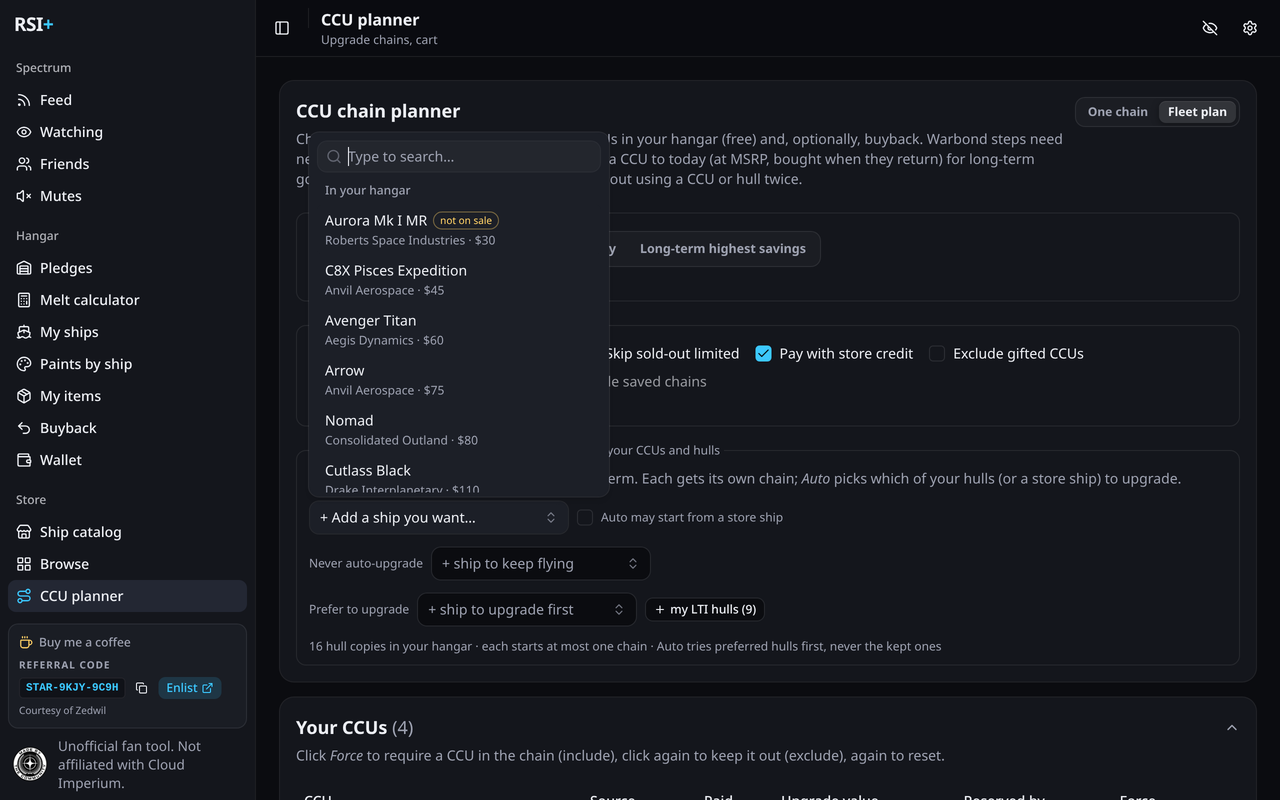
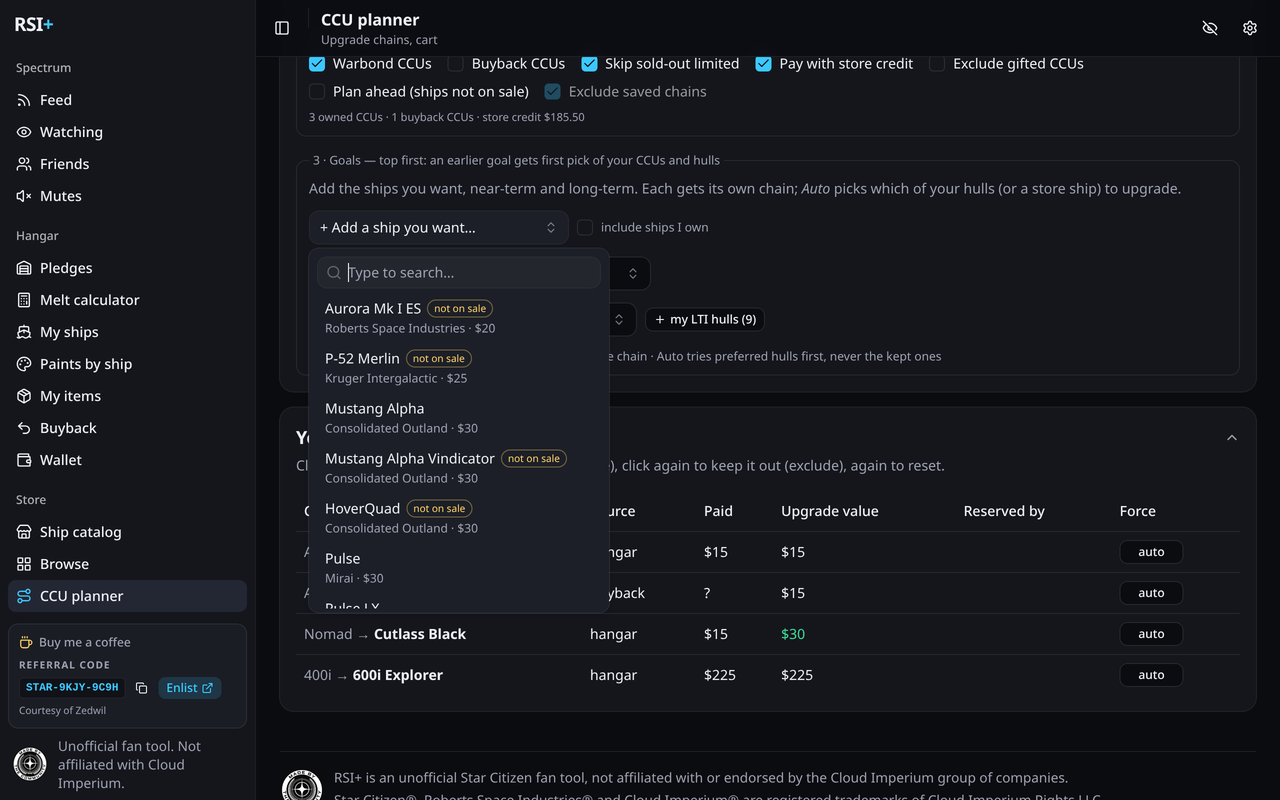
feat(ccu): per-goal LTI preference and store start in fleet plans; want pickers hide owned ships by default

diff --git a/src/lib/ccu.ts b/src/lib/ccu.ts
@@ -290,6 +290,13 @@ export interface Goal {
   fromId: number | null;
   targetId: number;
   via: number[];
+  /** Auto source may start by buying a store ship (unset = the plan-wide default `FleetOptions.storeStart`). */
+  storeStart?: boolean;
+  /**
+   * Insurance of the hull copy to upgrade: `any`; `prefer` an LTI copy when one gets there; `only` LTI copies (no store
+   * start — a new ship has no LTI). A CCU keeps the pledge's insurance, so LTI goals should start from LTI tokens.
+   */
+  lti?: 'any' | 'prefer' | 'only';
 }
 export interface FleetLeg {
   goal: Goal;
@@ -297,6 +304,8 @@ export interface FleetLeg {
   startId: number | null;
   plan: Plan | null;
   auto: boolean;
+  /** The upgraded hull copy is on an LTI pledge. */
+  lti: boolean;
   /** Planned ahead although the option is off: no chain with today's sales (target not on sale — an Orion, an Arrastra). */
   ahead: boolean;
 }
@@ -313,13 +322,13 @@ export interface FleetPlan {
   failed: number;
 }
 export interface FleetOptions {
-  /** Hull copies you own that can be upgraded (one copy per goal). */
-  hulls: { id: number; count: number }[];
+  /** Hull copies you own that can be upgraded (one copy per goal); `lti` = how many of them are on LTI pledges. */
+  hulls: { id: number; count: number; lti?: number }[];
   /** Hulls an auto goal never upgrades (ones you want to keep flying). */
   keep?: number[];
   /** Hulls an auto goal upgrades first when one of them gets there (cheap LTI tokens, ships you don't fly). */
   prefer?: number[];
-  /** An auto goal may start by buying a ship from the store. */
+  /** Default for goals without their own `storeStart`: an auto goal may start by buying a ship from the store. */
   storeStart?: boolean;
 }
 
@@ -330,13 +339,31 @@ const better = (a: Plan, b: Plan) => a.savings !== b.savings ? a.savings > b.sav
  * Plans several goals together, in the given order (= priority): each goal's chain may not reuse an owned / buyback
  * CCU an earlier goal took, and each owned hull copy starts at most one chain (goals with a fixed source claim theirs
  * first). An auto goal (`fromId: null`) tries every free hull copy cheaper than the target (not in `keep`) and, with
- * `storeStart`, buying from the store, and keeps the one that saves most. `opt.include` / `opt.via` are ignored —
- * stops are per goal.
+ * its `storeStart`, buying from the store, and keeps the one that saves most. Candidates are tried in groups — LTI
+ * copies first for an `lti: 'prefer'` goal (only those for `only`), then `prefer` hulls — and the first group with a
+ * chain wins. A goal that doesn't ask for LTI uses a non-LTI copy when the hull has one, leaving LTI copies for the
+ * goals that want them. `opt.include` / `opt.via` are ignored — stops are per goal.
  */
 export function planFleet(ships: CatalogShip[], owned: OwnedCcu[], goals: Goal[], opt: PlanOptions, fo: FleetOptions): FleetPlan {
   const byId = new Map(ships.map((s) => [s.id, s]));
-  const free = new Map(fo.hulls.map((h) => [h.id, h.count]));
-  for (const g of goals) if (g.fromId != null && free.get(g.fromId)) free.set(g.fromId, free.get(g.fromId)! - 1);
+  /** Free copies per hull, split by insurance. */
+  const free = new Map(fo.hulls.map((h) => [h.id, { lti: Math.min(h.lti ?? 0, h.count), plain: h.count - Math.min(h.lti ?? 0, h.count) }]));
+  const wantsLti = (g: Goal) => g.lti === 'prefer' || g.lti === 'only';
+  const has = (id: number, ltiOnly: boolean) => {
+    const f = free.get(id);
+    return !!f && (ltiOnly ? f.lti > 0 : f.lti + f.plain > 0);
+  };
+  /** Take one copy: an LTI one when the goal wants it (and there is one), else a plain one first. Returns its LTI. */
+  const take = (id: number, g: Goal): boolean => {
+    const f = free.get(id);
+    if (!f) return false;
+    const lti = wantsLti(g) ? f.lti > 0 : f.plain === 0 && f.lti > 0;
+    if (lti) f.lti--;
+    else if (f.plain > 0) f.plain--;
+    return lti;
+  };
+  const claimed = new Map<string, boolean>();
+  for (const g of goals) if (g.fromId != null && g.fromId !== STORE_START && has(g.fromId, g.lti === 'only')) claimed.set(g.id, take(g.fromId, g));
   const keep = new Set(fo.keep ?? []);
   const used = new Set<number>();
   const legs: FleetLeg[] = [];
@@ -346,12 +373,19 @@ export function planFleet(ships: CatalogShip[], owned: OwnedCcu[], goals: Goal[]
     let best: Plan | null = null;
     let ahead = false;
     const target = byId.get(goal.targetId);
-    const cands = goal.fromId != null ? [goal.fromId] : [...free].filter(([id, n]) => n > 0 && !keep.has(id) && (byId.get(id)?.msrp ?? Infinity) < (target?.msrp ?? 0)).map(([id]) => id);
-    if (goal.fromId == null && fo.storeStart) cands.push(STORE_START);
+    const only = goal.lti === 'only';
+    const cands =
+      goal.fromId != null
+        ? [goal.fromId]
+        : [...free.keys()].filter((id) => has(id, only) && !keep.has(id) && (byId.get(id)?.msrp ?? Infinity) < (target?.msrp ?? 0));
+    if (goal.fromId == null && !only && (goal.storeStart ?? fo.storeStart)) cands.push(STORE_START);
     // Today's sales first; only when no source gets there, plan ahead (waiting for the target's CCU to return).
-    // Within a pass, preferred hulls first: the best of them wins over any other hull.
+    // Within a pass, groups in order — LTI copies (prefer-LTI goals), then preferred hulls — and the first group
+    // with a chain wins over any later one.
     const pref = new Set(fo.prefer ?? []);
-    const groups = [cands.filter((c) => pref.has(c)), cands.filter((c) => !pref.has(c))];
+    const ltiFirst = goal.lti === 'prefer' && goal.fromId == null;
+    const isLti = (c: number) => (free.get(c)?.lti ?? 0) > 0;
+    const groups = (ltiFirst ? [cands.filter(isLti), cands.filter((c) => !isLti(c))] : [cands]).flatMap((g) => [g.filter((c) => pref.has(c)), g.filter((c) => !pref.has(c))]);
     search: for (const pass of o.planAhead ? [o] : [o, { ...o, planAhead: true }]) {
       for (const group of groups) {
         for (const c of group) {
@@ -364,9 +398,10 @@ export function planFleet(ships: CatalogShip[], owned: OwnedCcu[], goals: Goal[]
         }
       }
     }
-    if (goal.fromId == null && best && startId != null && startId !== STORE_START) free.set(startId, free.get(startId)! - 1);
+    let lti = claimed.get(goal.id) ?? false;
+    if (goal.fromId == null && best && startId != null && startId !== STORE_START) lti = take(startId, goal);
     for (const r of reservedRefs(best ? [best] : [])) used.add(r);
-    legs.push({ goal, startId: best ? startId : goal.fromId, plan: best, auto: goal.fromId == null, ahead });
+    legs.push({ goal, startId: best ? startId : goal.fromId, plan: best, auto: goal.fromId == null, lti, ahead });
   }
   const sum = (f: (p: Plan) => number) => legs.reduce((n, l) => n + (l.plan ? f(l.plan) : 0), 0);
   return { legs, total: sum((p) => p.total), cash: sum((p) => p.cash), paid: sum((p) => p.paid), later: sum((p) => p.later), waits: sum((p) => p.waits), msrpDiff: sum((p) => p.msrpDiff), savings: sum((p) => p.savings), failed: legs.filter((l) => !l.plan).length };
@@ -444,13 +479,17 @@ export function ownedCcus(
 }
 
 /** Hull copies you own (one per pledge listing it) — what a fleet plan can upgrade. */
-export function ownedHulls(pledges: { ships: string[] }[], ships: CatalogShip[]): { id: number; count: number }[] {
-  const n = new Map<number, number>();
+export function ownedHulls(pledges: { ships: string[]; lti?: boolean }[], ships: CatalogShip[]): { id: number; count: number; lti: number }[] {
+  const n = new Map<number, { count: number; lti: number }>();
   for (const p of pledges) for (const t of p.ships) {
     const s = matchShip(t, ships);
-    if (s) n.set(s.id, (n.get(s.id) ?? 0) + 1);
+    if (!s) continue;
+    const h = n.get(s.id) ?? { count: 0, lti: 0 };
+    h.count++;
+    if (p.lti) h.lti++;
+    n.set(s.id, h);
   }
-  return [...n].map(([id, count]) => ({ id, count }));
+  return [...n].map(([id, h]) => ({ id, ...h }));
 }
 
 /** Ships you own outright (single-ship / combo pledges, upgraded ships count as their current hull). */

diff --git a/src/components/CcuFleet.svelte b/src/components/CcuFleet.svelte
@@ -55,25 +55,24 @@
   let goals = $state<Goal[]>([]);
   let keep = $state<number[]>([]);
   let prefer = $state<number[]>([]);
-  let storeStart = $state(false);
   let loaded = $state(false);
   $effect(() => {
     ccuGoalsItem.getValue().then((v) => {
-      goals = v.goals;
+      // The store-start option used to be plan-wide: carry it into each goal that has none of its own.
+      goals = v.goals.map((g) => (g.storeStart === undefined ? { ...g, storeStart: v.storeStart } : g));
       keep = v.keep;
       prefer = v.prefer ?? [];
-      storeStart = v.storeStart;
       loaded = true;
     });
   });
   $effect(() => {
-    const v = { goals: $state.snapshot(goals), keep: $state.snapshot(keep), prefer: $state.snapshot(prefer), storeStart };
+    const v = { goals: $state.snapshot(goals), keep: $state.snapshot(keep), prefer: $state.snapshot(prefer), storeStart: false };
     if (loaded) ccuGoalsItem.setValue(v);
   });
 
   const byId = $derived(new Map(ships.map((s) => [s.id, s])));
   const name = (id: number | null) => (id == null ? 'Auto' : id === STORE_START ? 'Store' : (byId.get(id)?.name ?? `#${id}`));
-  const fleet = $derived(planFleet(ships, owned, goals, opt, { hulls, keep, prefer, storeStart }));
+  const fleet = $derived(planFleet(ships, owned, goals, opt, { hulls, keep, prefer }));
   const payNow = $derived(fleet.total - fleet.later);
   /** Every CCU the plan waits for, cheapest first: hull, which goal, planned cost, when last seen on sale. */
   const waiting = $derived(
@@ -88,12 +87,15 @@
 
   // ---- editing goals ----
   let addTo = $state<number | null>(null);
+  /** The goal picker hides ships you already own unless asked (a goal is usually a ship you don't have yet). */
+  let wantOwned = $state(false);
+  const wantable = $derived(wantOwned ? ships : ships.filter((s) => !mine.some((m) => m.id === s.id)));
   /** One-shot pickers (stops, keep): bound here and cleared after each pick so they read empty again. */
   let picks = $state<Record<string, number | null>>({});
   const uid = () => `${Date.now().toString(36)}${Math.random().toString(36).slice(2, 6)}`;
   function addGoal(id: number | null) {
     if (id == null) return;
-    goals = [...goals, { id: uid(), fromId: null, targetId: id, via: [] }];
+    goals = [...goals, { id: uid(), fromId: null, targetId: id, via: [], storeStart: false, lti: 'any' }];
     addTo = null;
   }
   const edit = (i: number, g: Partial<Goal>) => (goals = goals.map((x, j) => (j === i ? { ...x, ...g } : x)));
@@ -186,12 +188,34 @@
           {/each}
           <div class="w-[190px]"><ShipSelect ships={sortedShips} bind:value={() => picks[`via${g.id}`] ?? null, (v) => (picks[`via${g.id}`] = v)} price={false} onpick={(id) => (id != null && !g.via.includes(id) && edit(i, { via: [...g.via, id] }), (picks[`via${g.id}`] = null))} ariaLabel={`Add a stop for ${name(g.targetId)}`} placeholder="+ ship to fly on the way" /></div>
         </div>
+        {#if srcOf(g) !== 'store'}
+          <div class="flex flex-wrap items-center gap-2">
+            <span class="text-muted-foreground text-xs" title="A CCU keeps the pledge's insurance: upgrade an LTI copy to end with an LTI ship">Insurance</span>
+            <Segmented
+              options={[
+                { id: 'any', label: 'Any', hint: 'Any copy; a non-LTI copy is used first so LTI copies stay free for LTI goals' },
+                { id: 'prefer', label: 'Prefer LTI', hint: 'Upgrade an LTI copy when one gets there, else any' },
+                { id: 'only', label: 'LTI only', hint: 'Only LTI copies (no store start — a new ship has no LTI)' },
+              ]}
+              value={g.lti ?? 'any'}
+              onchange={(v) => edit(i, { lti: v as Goal['lti'] })}
+              ariaLabel={`Insurance for ${name(g.targetId)}`}
+              size="sm"
+            />
+            {#if srcOf(g) === 'auto'}
+              <label class={cn('text-muted-foreground flex items-center gap-2 text-xs', g.lti === 'only' && 'opacity-50')} title="This goal may start by buying a standalone ship on sale instead of upgrading one of yours">
+                <Checkbox checked={!!g.storeStart && g.lti !== 'only'} disabled={g.lti === 'only'} onCheckedChange={(v) => edit(i, { storeStart: !!v })} /> may start from a store ship
+              </label>
+            {/if}
+          </div>
+        {/if}
         {#if leg}
           {#if !leg.plan}
-            <span class="text-destructive text-xs">No chain, even planning ahead — {leg.auto ? 'no free hull of yours is cheaper than the target' : 'not reachable from that source'}, or a stop is not between source and target.</span>
+            <span class="text-destructive text-xs">No chain, even planning ahead — {leg.auto ? `no free ${g.lti === 'only' ? 'LTI ' : ''}hull of yours is cheaper than the target` : 'not reachable from that source'}, or a stop is not between source and target.</span>
           {:else}
             <div class="flex flex-wrap items-center gap-1.5 text-xs">
               {#if leg.auto}<Badge variant="outline" class="text-primary">auto: {name(leg.startId)}</Badge>{/if}
+              {#if leg.lti}<Badge variant="outline" class="border-warning/40 text-warning" title="Upgrades a copy on an LTI pledge — the target keeps LTI">LTI</Badge>{:else if g.lti === 'prefer' && leg.startId !== STORE_START}<Badge variant="outline" class="text-muted-foreground" title="No free LTI copy gets there — a non-LTI copy is used">no LTI copy</Badge>{/if}
               {#if leg.ahead}<Badge variant="outline" class="border-warning/40 text-warning" title="Nothing on sale today gets there — planned through CCUs at MSRP, bought when they return">planned ahead</Badge>{/if}
               <span class="text-muted-foreground">{name(leg.startId)}</span>
               {#each leg.plan.steps as s, k (k)}
@@ -207,8 +231,8 @@
       </div>
     {/each}
     <div class="flex flex-wrap items-center gap-2">
-      <div class="w-[260px]"><ShipSelect {ships} {mine} saleTag bind:value={addTo} onpick={addGoal} ariaLabel="Add a goal ship" placeholder="+ Add a ship you want…" /></div>
-      <label class="text-muted-foreground flex items-center gap-2 text-xs" title="An Auto goal may start by buying a standalone ship on sale instead of upgrading one of yours"><Checkbox bind:checked={storeStart} /> Auto may start from a store ship</label>
+      <div class="w-[260px]"><ShipSelect ships={wantable} mine={wantOwned ? mine : []} saleTag bind:value={addTo} onpick={addGoal} ariaLabel="Add a goal ship" placeholder="+ Add a ship you want…" /></div>
+      <label class="text-muted-foreground flex items-center gap-2 text-xs" title="List the ships already in your hangar too (another copy, or a goal you already reached)"><Checkbox bind:checked={wantOwned} /> include ships I own</label>
     </div>
     <div class="flex flex-wrap items-center gap-2 text-xs">
       <span class="text-muted-foreground">Never auto-upgrade</span>

diff --git a/tests/ccu.test.ts b/tests/ccu.test.ts
@@ -241,7 +241,7 @@ describe('plan ahead (long-term goals)', () => {
     expect(f.legs[1]!.plan!.steps.map((s) => s.kind)).toEqual(['standalone', 'future']);
     expect(f.legs[2]!.plan).toBeNull(); // Connie → Titan goes down
     expect(f.failed).toBe(1);
-    expect(ownedHulls([{ ships: ['Aurora MR'] }, { ships: ['Aurora MR', 'Cutlass Black'] }], all)).toEqual([{ id: 1, count: 2 }, { id: 3, count: 1 }]);
+    expect(ownedHulls([{ ships: ['Aurora MR'] }, { ships: ['Aurora MR', 'Cutlass Black'] }], all)).toEqual([{ id: 1, count: 2, lti: 0 }, { id: 3, count: 1, lti: 0 }]);
   });
 
   it('fleet plan: a target nothing sells today (Orion) is planned ahead even with the option off', () => {
@@ -273,5 +273,33 @@ describe('plan ahead (long-term goals)', () => {
     expect(matchShip('Kraken Privateer', all)?.name).toBe('Kraken Privateer');
     const p = plan(all, [], 4, kraken.id, o({ planAhead: true }))!;
     expect(p.steps.at(-1)).toMatchObject({ toId: kraken.id, kind: 'future', cost: 165000 - 24000 });
+  });
+
+  it('fleet plan: per-goal LTI and store start', () => {
+    const E = ship(5, 'Mustang Alpha', 2000, [], [sku('Standalone', 2000)]);
+    const all = [...ships, E];
+    // Aurora: 1 LTI + 1 plain copy; Titan: 1 plain copy
+    const hulls = [{ id: 1, count: 2, lti: 1 }, { id: 2, count: 1, lti: 0 }];
+    const goals = [
+      { id: 'plain', fromId: null, targetId: 3, via: [], lti: 'any' as const },
+      { id: 'lti', fromId: null, targetId: 4, via: [], lti: 'only' as const },
+      { id: 'store', fromId: null, targetId: 2, via: [], storeStart: true },
+    ];
+    const f = planFleet(all, [], goals, o({ warbond: false }), { hulls, prefer: [] });
+    // the "any" goal takes a plain copy, leaving the LTI Aurora for the LTI goal
+    expect(f.legs[0]!.lti).toBe(false);
+    expect(f.legs[1]).toMatchObject({ startId: 1, lti: true });
+    // the store goal may use the store, but a free hull that pays less now wins
+    expect(f.legs[2]!.plan).not.toBeNull();
+    const onlyStore = planFleet(all, [], [goals[2]!], o({}), { hulls: [] });
+    expect(onlyStore.legs[0]!.startId).toBe(STORE_START);
+    const noStore = planFleet(all, [], [{ ...goals[2]!, storeStart: false }], o({}), { hulls: [] });
+    expect(noStore.legs[0]!.plan).toBeNull();
+    // LTI only with no LTI copy → no chain, never a store start
+    const none = planFleet(all, [], [{ id: 'x', fromId: null, targetId: 4, via: [], lti: 'only' as const, storeStart: true }], o({}), { hulls: [{ id: 1, count: 1, lti: 0 }] });
+    expect(none.legs[0]!.plan).toBeNull();
+    // prefer LTI: picks the LTI copy's hull over a hull that saves more
+    const pref = planFleet(all, [], [{ id: 'p', fromId: null, targetId: 4, via: [], lti: 'prefer' as const }], o({ warbond: false }), { hulls: [{ id: 1, count: 1, lti: 0 }, { id: 2, count: 1, lti: 1 }] });
+    expect(pref.legs[0]).toMatchObject({ startId: 2, lti: true });
   });
 });

diff --git a/src/components/CcuPanel.svelte b/src/components/CcuPanel.svelte
@@ -96,6 +96,9 @@
   /** Hulls on LTI pledges (LTI tokens): one click to prefer them in a fleet plan. */
   const ltiHulls = $derived(ownedHulls((hangar?.pledges ?? []).filter((p) => p.lti), ships).map((h) => h.id));
   let stopPick = $state<number | null>(null);
+  /** The target picker hides ships you already own unless asked. */
+  let targetOwned = $state(false);
+  const targetable = $derived(targetOwned ? ships : ships.filter((s) => !mine.some((m) => m.id === s.id) || s.id === toId));
   const sortedShips = $derived([...ships].sort((a, b) => a.name.localeCompare(b.name)));
   const ccus = $derived(ownedCcus(hangar?.pledges ?? [], buyback?.items ?? [], ships));
   const buybackUrl = $derived(new Map((buyback?.items ?? []).map((b) => [b.id, b.url])));
@@ -448,7 +451,8 @@
         </fieldset>
         <fieldset class="border-border m-0 grid min-w-0 flex-[1_1_300px] gap-2 rounded-lg border px-3 py-2.5">
           <legend class="text-muted-foreground px-1 text-xs">4 · Target</legend>
-          <ShipSelect {ships} {mine} saleTag bind:value={toId} ariaLabel="Target ship" placeholder="Pick a target…" />
+          <ShipSelect ships={targetable} mine={targetOwned ? mine : []} saleTag bind:value={toId} ariaLabel="Target ship" placeholder="Pick a target…" />
+          <label class="text-muted-foreground flex items-center gap-2 text-xs" title="List the ships already in your hangar too"><Checkbox bind:checked={targetOwned} /> include ships I own</label>
           <div class="flex flex-wrap items-center gap-1.5 text-xs">
             <span class="text-muted-foreground" title="Hulls the chain must pass through — to fly them for a while on the way to the target">Stops</span>
             {#each opt.via ?? [] as v (v)}

diff --git a/store/shoot.py b/store/shoot.py
@@ -163,8 +163,10 @@ def main():
                const later = cat.ships.filter((x) => !x.ccu.length && !x.standalone.some((k) => k.available) && x.msrp > 40000 && x.msrp <= 90000).sort((a, b) => b.msrp - a.msrp)[0];
                const mid = cat.ships.filter((x) => x.ccu.length && x.msrp > 15000 && x.msrp <= 30000).sort((a, b) => b.msrp - a.msrp)[0];
                const goals = [mid && {{ id: 'g1', fromId: null, targetId: mid.id, via: [] }}, later && {{ id: 'g2', fromId: by('Cutlass Black')?.id ?? null, targetId: later.id, via: [] }}].filter(Boolean);
+               const tab = (t) => [...document.querySelectorAll('[role=radio], button')].find((b) => b.innerText.trim() === t)?.click();
+               tab('One chain'); await sleep(500);
                await chrome.storage.local.set({{ ccuGoals: {{ goals, keep: [], storeStart: false }} }});
-               [...document.querySelectorAll('[role=radio], button')].find((b) => b.innerText.trim() === 'Fleet plan')?.click(); await sleep(1500);
+               tab('Fleet plan'); await sleep(1500);
                [...document.querySelectorAll('label')].find((l) => /Plan ahead/.test(l.innerText))?.querySelector('button, [role=checkbox]')?.click(); await sleep(800);
                [...document.querySelectorAll('legend')].find((e) => /Goals/.test(e.innerText))?.scrollIntoView({{ block: 'start' }}); window.scrollBy(0, -80); }})()"""),
             ('wallet', '#wallet', {}, None),

diff --git a/docs/changelog.md b/docs/changelog.md
@@ -6,6 +6,10 @@ updated: 2026-10-13
 # Changelog
 
 ## Unreleased
+- **Fleet plan: options per goal.**
+  - **Insurance:** *Any* / *Prefer LTI* / *LTI only*. A CCU keeps the pledge's insurance, so an LTI goal upgrades an LTI copy of a hull. *Any* uses a non-LTI copy first, leaving your LTI tokens for the goals that want them. The chain line shows an *LTI* badge, or *no LTI copy* when a prefer-LTI goal had to settle.
+  - **May start from a store ship:** now per goal instead of plan-wide. Your old setting is carried into existing goals, and *LTI only* never starts from the store, because a new ship has no LTI.
+- **CCU planner: the "ship you want" pickers hide ships you already own** (*Add a ship you want* and the single planner's target). Tick *include ships I own* to list them.
 - **Ship pickers read better**: two-line rows (name, then maker · price) in a wider list. The sale state is a small pill (*not on sale*, *concept*, *wiki MSRP*, with a tooltip) instead of text that squeezed the ship name out.
 - **Kraken, Kraken Privateer, Javelin and Idris-M in the planner and Ship catalog.** RSI's upgrade catalog never lists them; they're sold only in rare packages and events. RSI+ now adds them with their pledge cost from starcitizen.tools ($1,650 / $2,420 / $3,000 / $1,000), so they can be CCU goals (planned ahead at MSRP) and hangar copies match. They're tagged *not in RSI CCU list · MSRP via wiki*. Concept hulls RSI does list (Galaxy, Nautilus, Orion, Pioneer…) are plannable the same way.
 - **Fleet plan: *Prefer to upgrade*.** The counterpart of *Never auto-upgrade*: Auto upgrades one of these hulls first whenever it reaches the goal, such as cheap LTI tokens or ships you don't fly. *+ my LTI hulls* adds every hull on an LTI pledge in one click. A hull sits in only one of the two lists, and each list has *Clear all*.

diff --git a/docs/architecture.md b/docs/architecture.md
@@ -123,6 +123,12 @@ Manifest `incognito: 'split'`: incognito windows get their own background worker
   - Negative ids, `msrpSource: 'wiki'`, starcitizen.tools pledge cost, link to the wiki page.
   - `withExtraShips` adds them in `fetchCatalog` and on the background's cached catalog, unless RSI lists the name itself.
   - They have no SKUs, so they only appear as `future` targets. The planner shows no store link for them.
+- **Per-goal options**:
+  - `Goal.lti` (`any` / `prefer` / `only`) and `Goal.storeStart` (falls back to `FleetOptions.storeStart`; the old plan-wide value is migrated into goals on load).
+  - `ownedHulls` counts LTI copies (`lti`). `planFleet` keeps free copies split `{ lti, plain }`: LTI goals take LTI copies, others take plain ones first.
+  - Auto candidate groups: LTI hulls first for `prefer` (only those for `only`, which also never adds `STORE_START`), each split by the global `prefer` list.
+  - `FleetLeg.lti` = the upgraded copy is LTI.
+- *Want* pickers (fleet *Add a ship you want*, single *Target*) list only hulls you don't own unless *include ships I own* is ticked.
 - **Fleet `prefer`**: auto candidates are tried in two groups, preferred hulls first, within each pass (today's sales, then plan ahead). So a preferred hull that gets there beats any other hull, but never beats buying today vs waiting.
   - `ccuGoals.prefer` is stored next to `keep`.
   - *+ my LTI hulls* = `ownedHulls` of LTI pledges.
